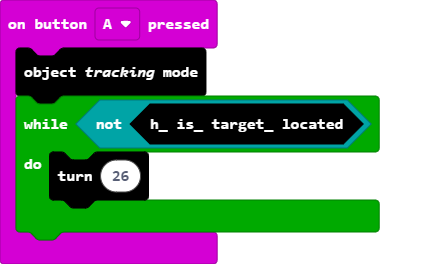
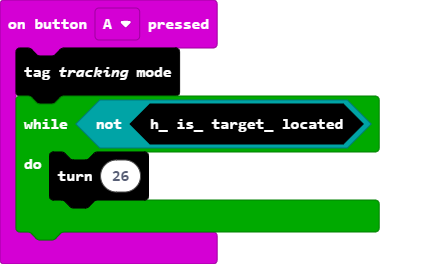
Update main.blocks, main.ts, custom.ts

Changed region(s): [[0.0603, 0.1515, 0.4826, 0.3636]]

diff --git a/custom.ts b/custom.ts
@@ -140,11 +140,12 @@ namespace MTS_RVR {
         while (position < 140 || position > 180) {
             huskylens.request();
             position = huskylens.readeBox_index(1, 1, Content1.xCenter);
-            sphero.resetYaw();
             if (position > 180) {
-                sphero.drive(0, 25);
+                degree += 25
+                sphero.drive(0, degree);
             } else {
-                sphero.drive(0, -25);
+                degree -= 25
+                sphero.drive(0, degree);
             }
             basic.pause(300);
         }

diff --git a/main.ts b/main.ts
@@ -1,5 +1,5 @@
 input.onButtonPressed(Button.A, function () {
-    MTS_RVR.Object_Tracking_Mode()
+    MTS_RVR.Tag_Tracking_Mode()
     while (!(MTS_RVR.H_Is_Target_Located())) {
         MTS_RVR.Turn(26)
     }
